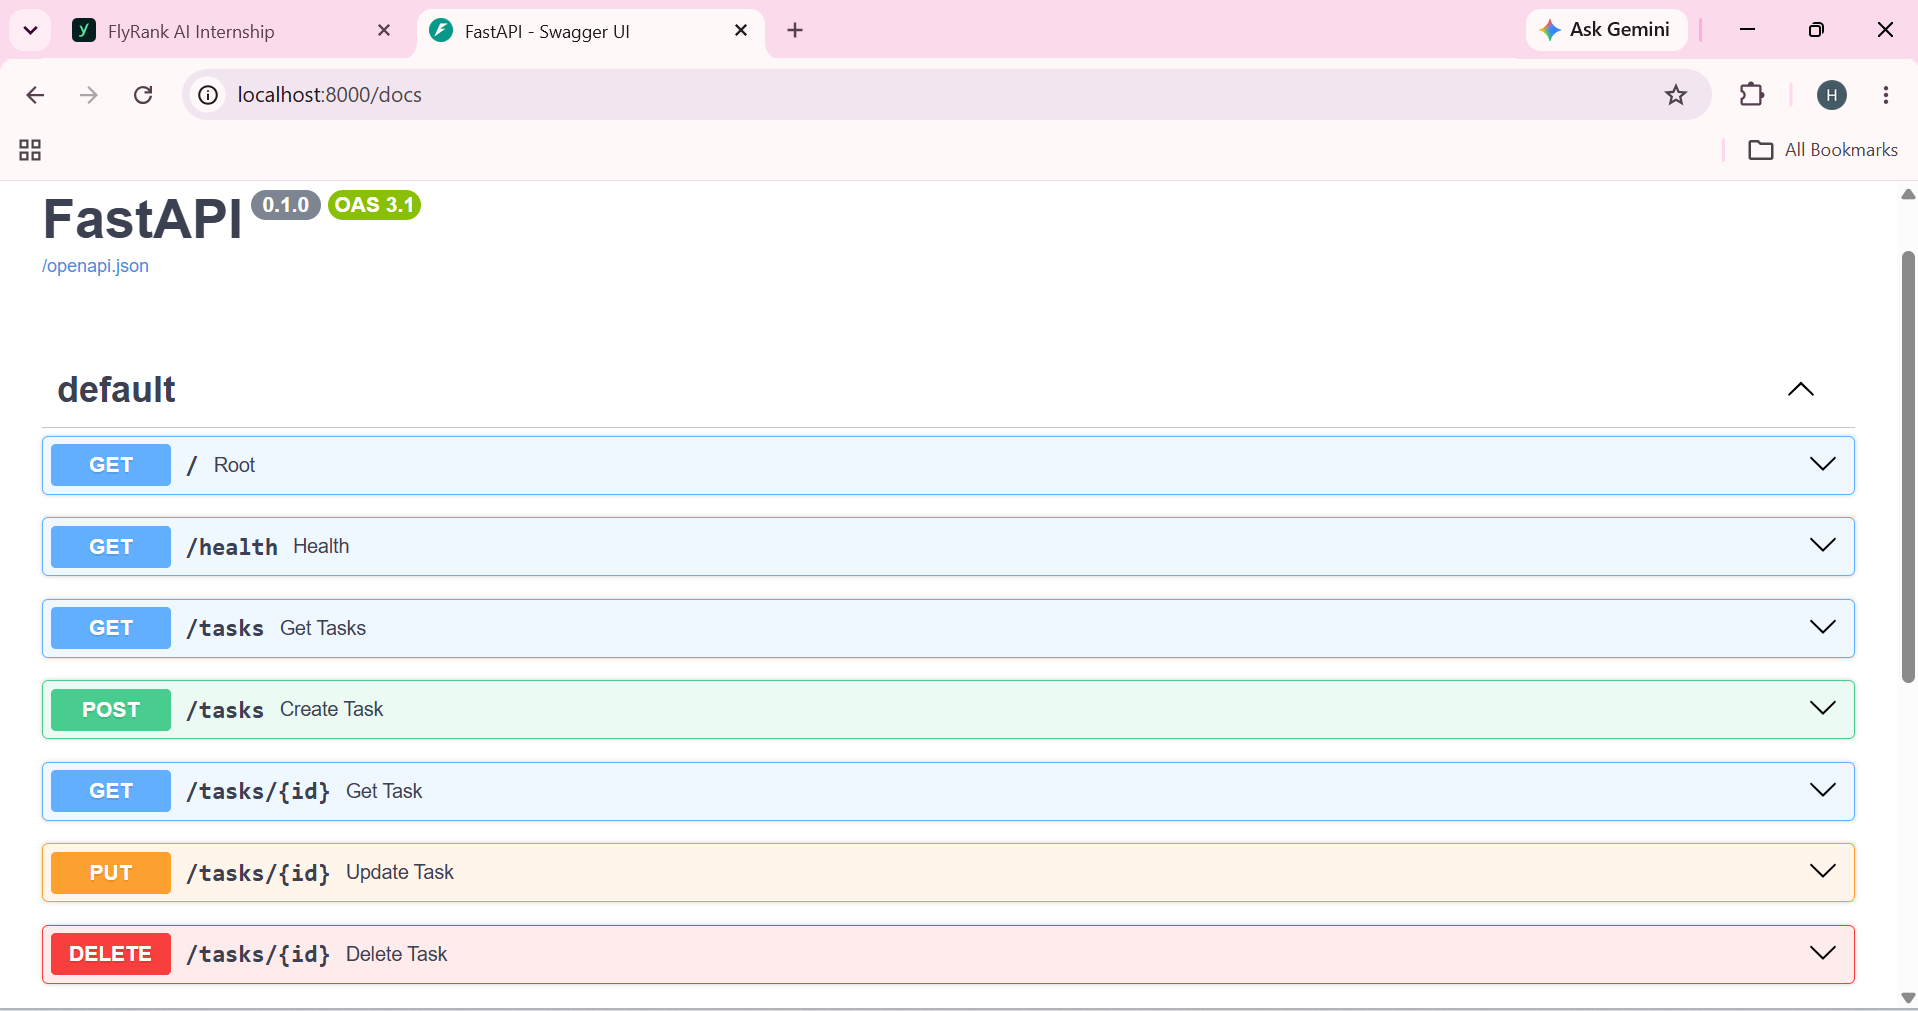
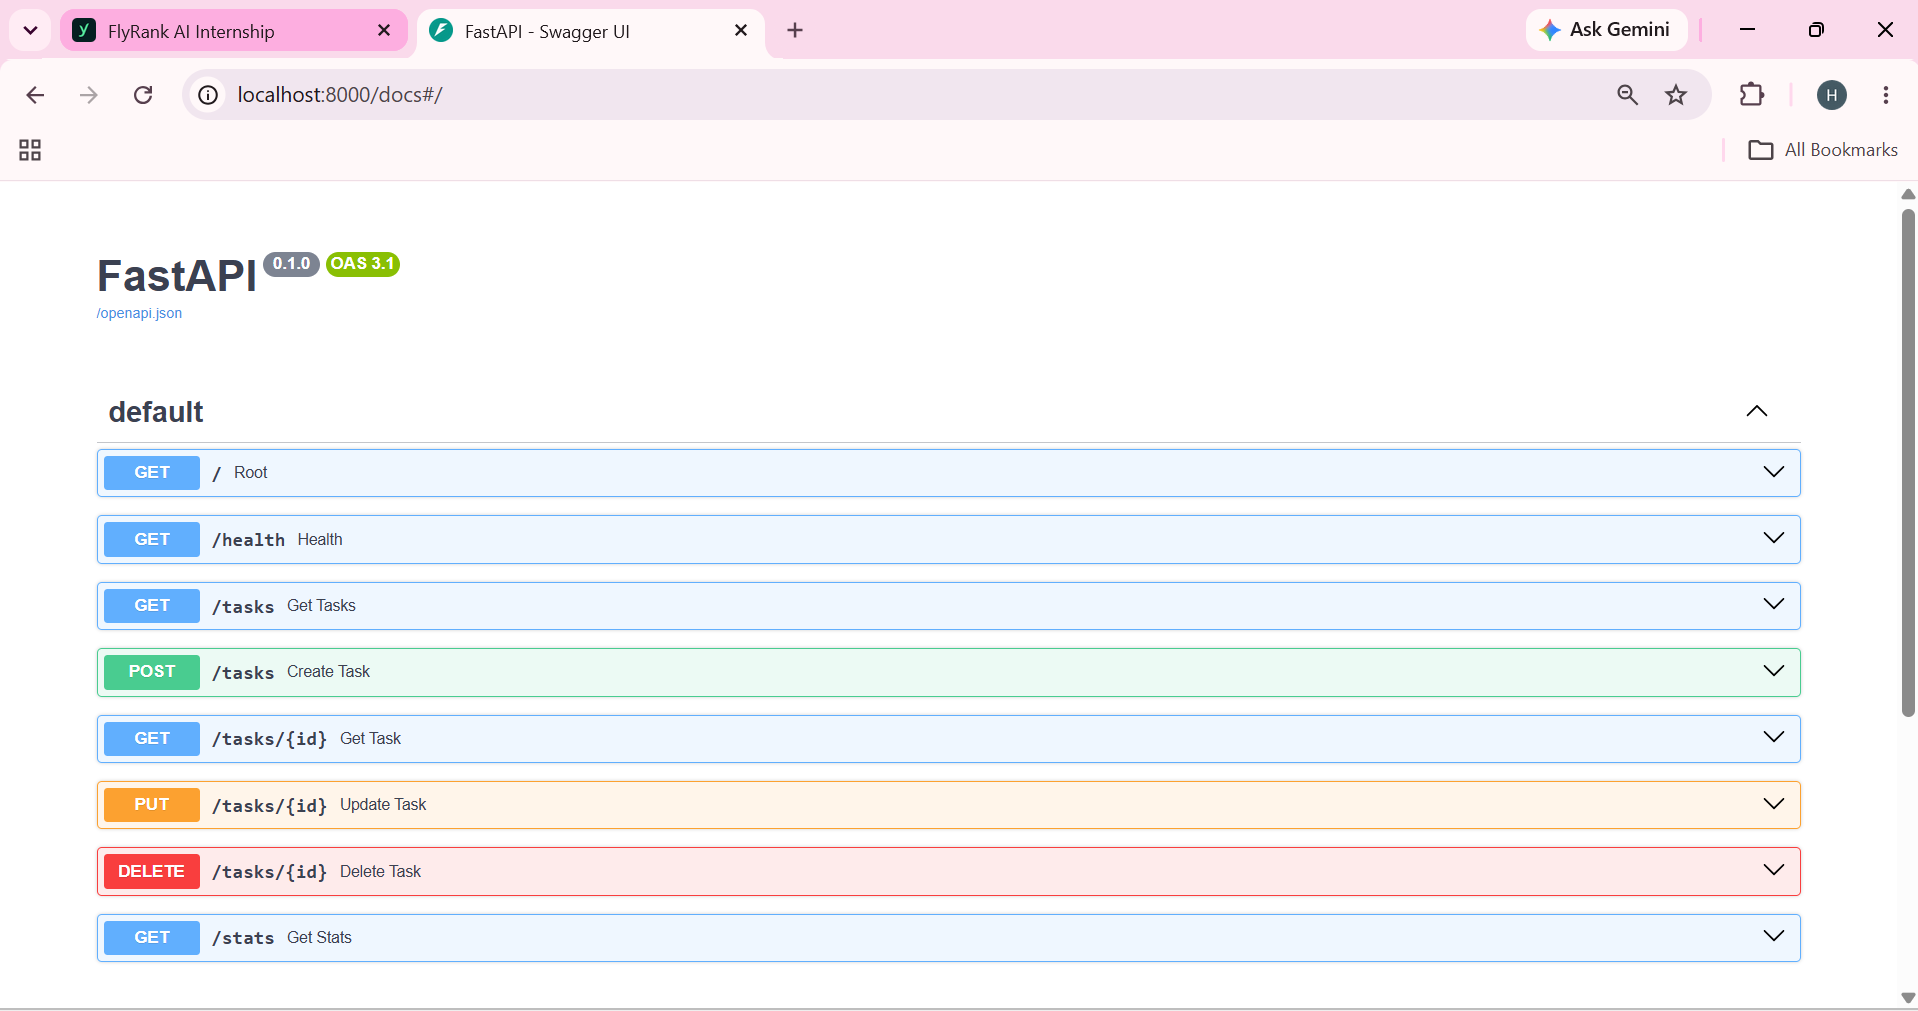
Extras: filter, search, stats and reset endpoints

diff --git a/app.py b/app.py
@@ -1,10 +1,12 @@
 from fastapi import FastAPI
 from fastapi import HTTPException
 from pydantic import BaseModel
+import copy
+from typing import Optional
 
 app = FastAPI()
 
-tasks = [
+INITIAL_TASKS = [
     {
         "id":1,
         "title":"Learn FastAPI",
@@ -21,6 +23,8 @@ tasks = [
         "done":True
     }
 ]
+
+tasks = copy.deepcopy(INITIAL_TASKS)
 
 class Task(BaseModel):
     title: str
@@ -46,8 +50,26 @@ def health():
     }
 
 @app.get("/tasks")
-def get_tasks():
-    return tasks
+def get_tasks(
+        done: Optional[bool] = None,
+        search: Optional[str] = None,
+    ):
+
+    result = tasks
+
+    if done is not None:
+        result = [
+            task for task in result
+            if task["done"] == done
+        ]
+
+    if search:
+        result = [
+            task for task in result
+            if search.lower() in task["title"].lower()
+        ]
+
+    return result
 
 @app.get("/tasks/{id}")
 def get_task(id: int):
@@ -107,3 +129,20 @@ def delete_task(id: int):
         status_code=404,
         detail=f"Task {id} not found"
     )
+
[email redacted]("/stats")
+def get_stats():
+    total = len(tasks)
+
+    done = len([
+        task for task in tasks
+        if task["done"]
+    ])
+
+    open_tasks = total - done
+
+    return {
+        "total": total,
+        "done": done,
+        "open_tasks": open_tasks,
+    }